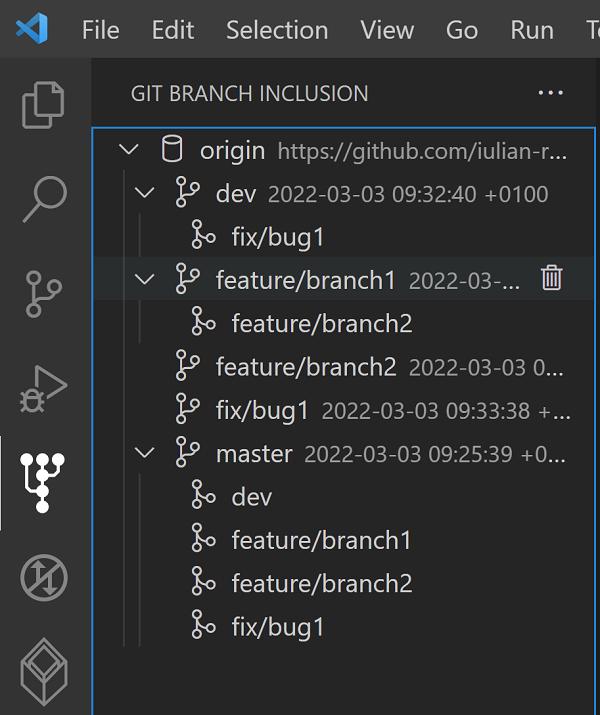
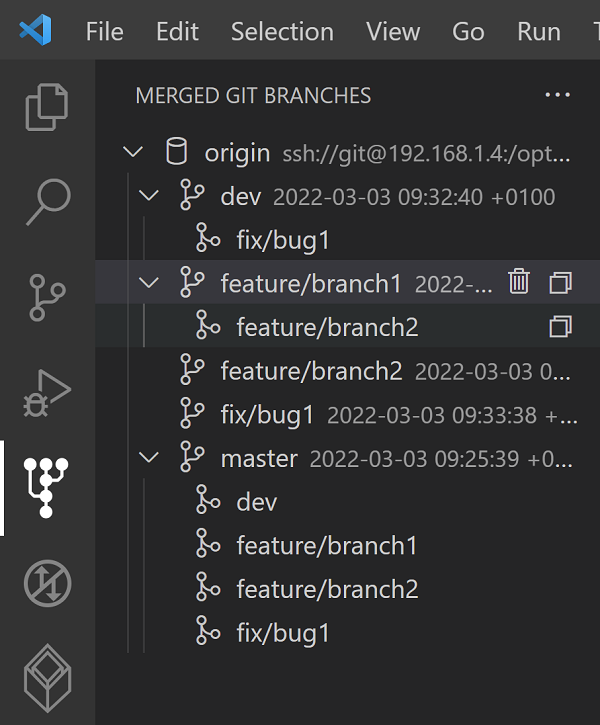
Added the possibility to copy the name of the branch

diff --git a/src/mergedGitBranches.ts b/src/mergedGitBranches.ts
@@ -41,15 +41,6 @@ export class mergedGitBranchesProvider
     this._onDidChangeTreeData.fire(undefined);
   }
 
-  public delete(node: TreeNode): any {
-    const terminal = vscode.window.createTerminal(
-      `Delete remote branch ${node.parent?.label}/${node.label}`
-    );
-    terminal.show();
-    const cmd = `git push ${node.parent?.label} -D ${node.label}`;
-    terminal.sendText(cmd, false);
-  }
-
   public prune() {
     if (this.cacheRepos === undefined) {
       return;
@@ -63,6 +54,27 @@ export class mergedGitBranchesProvider
         )
       )
     );
+  }
+
+  public copyName(node: TreeNode): any {
+    const remote = getRemoteName(node.parent);
+    const name = `${remote}/${node.label}`;
+    vscode.env.clipboard
+      .writeText(name)
+      .then(() =>
+        vscode.window.showInformationMessage(
+          `Branch's name was copied in clipboard: ${name}`
+        )
+      );
+  }
+
+  public delete(node: TreeNode): any {
+    const terminal = vscode.window.createTerminal(
+      `Delete remote branch ${node.parent?.label}/${node.label}`
+    );
+    terminal.show();
+    const cmd = `git push ${node.parent?.label} -D ${node.label}`;
+    terminal.sendText(cmd, false);
   }
 
   private async isGitCommandPresent(): Promise<boolean> {
@@ -218,6 +230,15 @@ function getRemoteForBranch(remotes: Remote[], branch: string) {
 function getTreeNode(cacheRemotes: TreeNode[], remote: Remote) {
   /* in tooltip we have the remote url */
   return cacheRemotes.find((node) => node.tooltip === remote.url);
+}
+
+function getRemoteName(node?: TreeNode) {
+  for (; node !== undefined; node = node?.parent) {
+    if (node.parent === undefined) {
+      return node.label;
+    }
+  }
+  return undefined;
 }
 
 const NoGitExecutable: TreeNode = new TreeNode(

diff --git a/src/extension.ts b/src/extension.ts
@@ -18,6 +18,12 @@ export const activate = (context: vscode.ExtensionContext) => {
   vscode.window.registerTreeDataProvider('mergedGitBranches', branchesProvider);
 
   let disposable: vscode.Disposable;
+
+  disposable = vscode.commands.registerCommand('mergedGitBranches.prune', () =>
+    branchesProvider.prune()
+  );
+  context.subscriptions.push(disposable);
+
   disposable = vscode.commands.registerCommand(
     'mergedGitBranches.refresh',
     () => branchesProvider.refresh()
@@ -25,13 +31,14 @@ export const activate = (context: vscode.ExtensionContext) => {
   context.subscriptions.push(disposable);
 
   disposable = vscode.commands.registerCommand(
-    'mergedGitBranches.delete',
-    (branch: TreeNode) => branchesProvider.delete(branch)
+    'mergedGitBranches.copyName',
+    (branch: TreeNode) => branchesProvider.copyName(branch)
   );
   context.subscriptions.push(disposable);
 
-  disposable = vscode.commands.registerCommand('mergedGitBranches.prune', () =>
-    branchesProvider.prune()
+  disposable = vscode.commands.registerCommand(
+    'mergedGitBranches.delete',
+    (branch: TreeNode) => branchesProvider.delete(branch)
   );
   context.subscriptions.push(disposable);
 };

diff --git a/README.md b/README.md
@@ -11,6 +11,7 @@ Automatically find all remote Git branches and displays in which other branches 
 
 - Automatically find all remote Git branches and displays in which other branches are they merged
 - For merged branches, a command to remove the remote Git branch can be displayed inside of a Visual Studio Code terminals
+- The possibility to copy the branch's name
 
 ## Usage
 

diff --git a/CHANGELOG.md b/CHANGELOG.md
@@ -15,3 +15,17 @@ All notable changes to the "Merged Git Branches" extension will be documented in
 ### Removed
 
 - Nothing
+
+## 1.0.1 (2022-03-04)
+
+### Added
+
+- The possibility to copy the name of the branch
+
+### Changed
+
+- Nothing
+
+### Removed
+
+- Nothing
